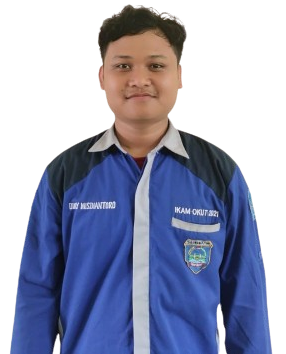
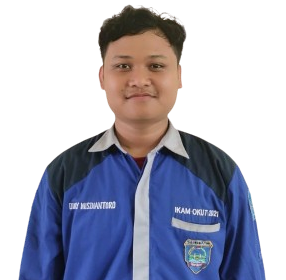
lanjutan

diff --git a/src/output.css b/src/output.css
@@ -578,21 +578,49 @@ video {
   }
 }
 
+.absolute {
+  position: absolute;
+}
+
+.relative {
+  position: relative;
+}
+
+.bottom-0 {
+  bottom: 0px;
+}
+
+.left-1\/2 {
+  left: 50%;
+}
+
+.-bottom-0 {
+  bottom: -0px;
+}
+
+.-z-10 {
+  z-index: -10;
+}
+
+.z-10 {
+  z-index: 10;
+}
+
 .mx-auto {
   margin-left: auto;
   margin-right: auto;
 }
 
-.mt-1 {
-  margin-top: 0.25rem;
+.mb-10 {
+  margin-bottom: 2.5rem;
 }
 
 .mb-5 {
   margin-bottom: 1.25rem;
 }
 
-.mb-10 {
-  margin-bottom: 2.5rem;
+.mt-1 {
+  margin-top: 0.25rem;
 }
 
 .mt-10 {
@@ -613,6 +641,15 @@ video {
 
 .max-w-full {
   max-width: 100%;
+}
+
+.-translate-x-1\/2 {
+  --tw-translate-x: -50%;
+  transform: translate(var(--tw-translate-x), var(--tw-translate-y)) rotate(var(--tw-rotate)) skewX(var(--tw-skew-x)) skewY(var(--tw-skew-y)) scaleX(var(--tw-scale-x)) scaleY(var(--tw-scale-y));
+}
+
+.transform {
+  transform: translate(var(--tw-translate-x), var(--tw-translate-y)) rotate(var(--tw-rotate)) skewX(var(--tw-skew-x)) skewY(var(--tw-skew-y)) scaleX(var(--tw-scale-x)) scaleY(var(--tw-scale-y));
 }
 
 .flex-wrap {
@@ -674,12 +711,12 @@ video {
   font-weight: 700;
 }
 
-.font-semibold {
-  font-weight: 600;
-}
-
 .font-medium {
   font-weight: 500;
+}
+
+.font-semibold {
+  font-weight: 600;
 }
 
 .leading-relaxed {
@@ -696,14 +733,14 @@ video {
   color: rgb(20 184 166 / var(--tw-text-opacity));
 }
 
-.text-slate-500 {
-  --tw-text-opacity: 1;
-  color: rgb(100 116 139 / var(--tw-text-opacity));
-}
-
 .text-slate-400 {
   --tw-text-opacity: 1;
   color: rgb(148 163 184 / var(--tw-text-opacity));
+}
+
+.text-slate-500 {
+  --tw-text-opacity: 1;
+  color: rgb(100 116 139 / var(--tw-text-opacity));
 }
 
 .text-white {
@@ -735,4 +772,12 @@ video {
   --tw-shadow: 0 10px 15px -3px rgb(0 0 0 / 0.1), 0 4px 6px -4px rgb(0 0 0 / 0.1);
   --tw-shadow-colored: 0 10px 15px -3px var(--tw-shadow-color), 0 4px 6px -4px var(--tw-shadow-color);
   box-shadow: var(--tw-ring-offset-shadow, 0 0 #0000), var(--tw-ring-shadow, 0 0 #0000), var(--tw-shadow);
+}
+
+@media (min-width: 768px) {
+  .md\:scale-125 {
+    --tw-scale-x: 1.25;
+    --tw-scale-y: 1.25;
+    transform: translate(var(--tw-translate-x), var(--tw-translate-y)) rotate(var(--tw-rotate)) skewX(var(--tw-skew-x)) skewY(var(--tw-skew-y)) scaleX(var(--tw-scale-x)) scaleY(var(--tw-scale-y));
+  }
 }

diff --git a/index.html b/index.html
@@ -34,12 +34,26 @@
             >
           </div>
           <div class="w-full self-end px-4">
-            <div class="mt-10">
+            <div class="relative mt-10">
               <img
                 src="img/Profile.png"
                 alt="Diky Misdiantoro"
-                class="max-w-full mx-auto"
+                class="relative z-10 mx-auto max-w-full"
               />
+              <span class="absolute bottom-0 left-1/2 -translate-x-1/2">
+                <svg
+                  width="400"
+                  height="400"
+                  viewBox="0 0 200 200"
+                  xmlns="http://www.w3.org/2000/svg"
+                >
+                  <path
+                    fill="#FF0066"
+                    d="M30.6,-25.5C41.5,-10.8,53.3,2,52.4,14.5C51.6,26.9,38.1,38.9,20.4,50.7C2.7,62.5,-19.2,74,-32.6,67.6C-46,61.2,-50.9,37,-51.2,17.1C-51.4,-2.8,-47,-18.4,-37.6,-32.7C-28.3,-47,-14.2,-60.2,-2.1,-58.4C9.9,-56.7,19.8,-40.2,30.6,-25.5Z"
+                    transform="translate(100 100) scale (1.1)"
+                  />
+                </svg>
+              </span>
             </div>
           </div>
         </div>
